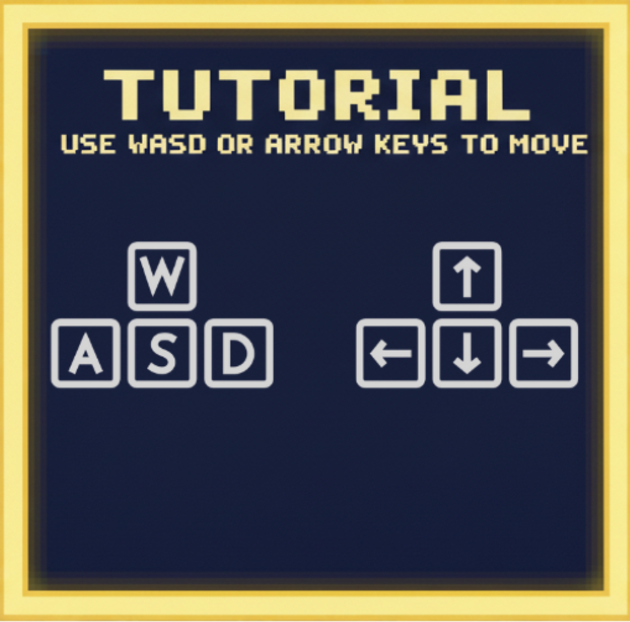
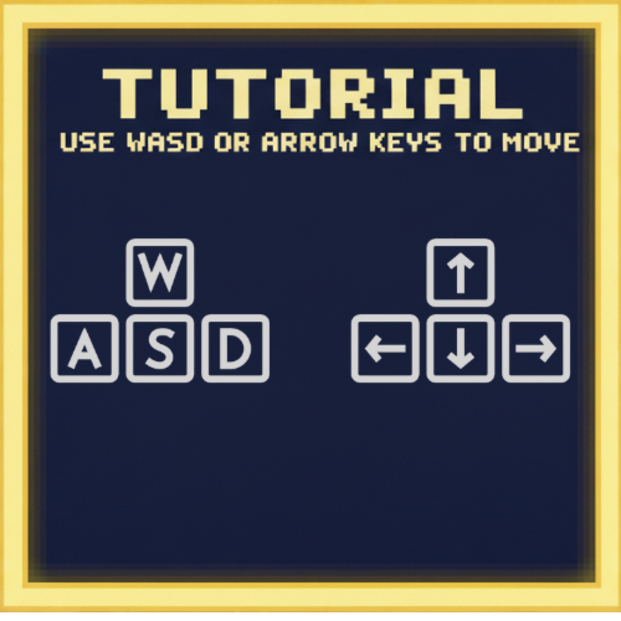
Update RankingBoard
HI vọng không lỗi

diff --git a/src/pacman_demo_v2/RankingBoard_Frame.java b/src/pacman_demo_v2/RankingBoard_Frame.java
@@ -119,7 +119,7 @@ public class RankingBoard_Frame extends javax.swing.JFrame {
         jPanel1.add(lbback);
         lbback.setBounds(20, 630, 120, 50);
 
-        lbText3rd3.setHorizontalAlignment(javax.swing.SwingConstants.CENTER);
+        lbText3rd3.setHorizontalAlignment(javax.swing.SwingConstants.RIGHT);
         jPanel1.add(lbText3rd3);
         lbText3rd3.setBounds(490, 310, 70, 40);
 
@@ -127,11 +127,11 @@ public class RankingBoard_Frame extends javax.swing.JFrame {
         jPanel1.add(lbText3rd2);
         lbText3rd2.setBounds(330, 320, 100, 20);
 
-        lbText3rd1.setHorizontalAlignment(javax.swing.SwingConstants.CENTER);
+        lbText3rd1.setHorizontalAlignment(javax.swing.SwingConstants.LEFT);
         jPanel1.add(lbText3rd1);
-        lbText3rd1.setBounds(190, 310, 70, 40);
+        lbText3rd1.setBounds(200, 310, 90, 40);
 
-        lbText2nd3.setHorizontalAlignment(javax.swing.SwingConstants.CENTER);
+        lbText2nd3.setHorizontalAlignment(javax.swing.SwingConstants.RIGHT);
         jPanel1.add(lbText2nd3);
         lbText2nd3.setBounds(490, 240, 70, 40);
 
@@ -139,23 +139,23 @@ public class RankingBoard_Frame extends javax.swing.JFrame {
         jPanel1.add(lbText2nd2);
         lbText2nd2.setBounds(330, 250, 100, 20);
 
-        lbText2nd1.setHorizontalAlignment(javax.swing.SwingConstants.CENTER);
+        lbText2nd1.setHorizontalAlignment(javax.swing.SwingConstants.LEFT);
         jPanel1.add(lbText2nd1);
-        lbText2nd1.setBounds(190, 240, 70, 40);
+        lbText2nd1.setBounds(200, 240, 90, 40);
 
-        lbText1st3.setHorizontalAlignment(javax.swing.SwingConstants.CENTER);
+        lbText1st3.setHorizontalAlignment(javax.swing.SwingConstants.RIGHT);
         jPanel1.add(lbText1st3);
-        lbText1st3.setBounds(490, 170, 70, 40);
+        lbText1st3.setBounds(490, 180, 70, 40);
 
         lbText1st2.setHorizontalAlignment(javax.swing.SwingConstants.CENTER);
         jPanel1.add(lbText1st2);
-        lbText1st2.setBounds(330, 180, 100, 20);
+        lbText1st2.setBounds(330, 190, 100, 20);
 
-        lbText1st1.setHorizontalAlignment(javax.swing.SwingConstants.CENTER);
+        lbText1st1.setHorizontalAlignment(javax.swing.SwingConstants.LEFT);
         jPanel1.add(lbText1st1);
-        lbText1st1.setBounds(190, 170, 70, 40);
+        lbText1st1.setBounds(200, 180, 90, 40);
 
-        lbText5th3.setHorizontalAlignment(javax.swing.SwingConstants.CENTER);
+        lbText5th3.setHorizontalAlignment(javax.swing.SwingConstants.RIGHT);
         jPanel1.add(lbText5th3);
         lbText5th3.setBounds(490, 440, 70, 40);
 
@@ -163,11 +163,11 @@ public class RankingBoard_Frame extends javax.swing.JFrame {
         jPanel1.add(lbText5th2);
         lbText5th2.setBounds(330, 450, 100, 20);
 
-        lbText5th1.setHorizontalAlignment(javax.swing.SwingConstants.CENTER);
+        lbText5th1.setHorizontalAlignment(javax.swing.SwingConstants.LEFT);
         jPanel1.add(lbText5th1);
-        lbText5th1.setBounds(190, 440, 70, 40);
+        lbText5th1.setBounds(200, 440, 90, 40);
 
-        lbText4th3.setHorizontalAlignment(javax.swing.SwingConstants.CENTER);
+        lbText4th3.setHorizontalAlignment(javax.swing.SwingConstants.RIGHT);
         jPanel1.add(lbText4th3);
         lbText4th3.setBounds(490, 370, 70, 40);
 
@@ -175,16 +175,16 @@ public class RankingBoard_Frame extends javax.swing.JFrame {
         jPanel1.add(lbText4th2);
         lbText4th2.setBounds(330, 380, 100, 20);
 
-        lbText4th1.setHorizontalAlignment(javax.swing.SwingConstants.CENTER);
+        lbText4th1.setHorizontalAlignment(javax.swing.SwingConstants.LEFT);
         jPanel1.add(lbText4th1);
-        lbText4th1.setBounds(190, 370, 70, 40);
+        lbText4th1.setBounds(200, 370, 90, 40);
 
         lbBgRankingBoard.setBackground(new java.awt.Color(51, 153, 255));
         lbBgRankingBoard.setHorizontalAlignment(javax.swing.SwingConstants.CENTER);
         lbBgRankingBoard.setIcon(new javax.swing.ImageIcon(getClass().getResource("/img/rankingBoardBG.png"))); // NOI18N
         lbBgRankingBoard.setOpaque(true);
         jPanel1.add(lbBgRankingBoard);
-        lbBgRankingBoard.setBounds(20, 20, 660, 660);
+        lbBgRankingBoard.setBounds(0, 0, 700, 700);
 
         javax.swing.GroupLayout layout = new javax.swing.GroupLayout(getContentPane());
         getContentPane().setLayout(layout);

diff --git a/src/pacman_demo_v2/PacManMainGame_Frame.java b/src/pacman_demo_v2/PacManMainGame_Frame.java
@@ -225,21 +225,9 @@ public class PacManMainGame_Frame extends javax.swing.JFrame {
                             .addComponent(lbCountScore, javax.swing.GroupLayout.DEFAULT_SIZE, javax.swing.GroupLayout.DEFAULT_SIZE, Short.MAX_VALUE)
                             .addComponent(lbCountLive, javax.swing.GroupLayout.DEFAULT_SIZE, javax.swing.GroupLayout.DEFAULT_SIZE, Short.MAX_VALUE)
                             .addComponent(lbCountTime, javax.swing.GroupLayout.DEFAULT_SIZE, 115, Short.MAX_VALUE))))
-<<<<<<< Updated upstream
-<<<<<<< Updated upstream
                 .addGap(28, 28, 28)
                 .addComponent(jLabel1, javax.swing.GroupLayout.PREFERRED_SIZE, 215, javax.swing.GroupLayout.PREFERRED_SIZE)
                 .addContainerGap(37, Short.MAX_VALUE))
-=======
-                .addPreferredGap(javax.swing.LayoutStyle.ComponentPlacement.RELATED, 27, Short.MAX_VALUE)
-                .addComponent(lbLogo, javax.swing.GroupLayout.PREFERRED_SIZE, 226, javax.swing.GroupLayout.PREFERRED_SIZE)
-                .addGap(27, 27, 27))
->>>>>>> Stashed changes
-=======
-                .addPreferredGap(javax.swing.LayoutStyle.ComponentPlacement.RELATED, 27, Short.MAX_VALUE)
-                .addComponent(lbLogo, javax.swing.GroupLayout.PREFERRED_SIZE, 226, javax.swing.GroupLayout.PREFERRED_SIZE)
-                .addGap(27, 27, 27))
->>>>>>> Stashed changes
         );
         pnlTileLayout.setVerticalGroup(
             pnlTileLayout.createParallelGroup(javax.swing.GroupLayout.Alignment.LEADING)
@@ -259,18 +247,8 @@ public class PacManMainGame_Frame extends javax.swing.JFrame {
                 .addPreferredGap(javax.swing.LayoutStyle.ComponentPlacement.UNRELATED)
                 .addComponent(lbHome, javax.swing.GroupLayout.PREFERRED_SIZE, 0, Short.MAX_VALUE))
             .addGroup(pnlTileLayout.createSequentialGroup()
-<<<<<<< Updated upstream
-<<<<<<< Updated upstream
                 .addComponent(jLabel1, javax.swing.GroupLayout.PREFERRED_SIZE, 151, javax.swing.GroupLayout.PREFERRED_SIZE)
                 .addGap(0, 22, Short.MAX_VALUE))
-=======
-                .addComponent(lbLogo, javax.swing.GroupLayout.PREFERRED_SIZE, 0, Short.MAX_VALUE)
-                .addContainerGap())
->>>>>>> Stashed changes
-=======
-                .addComponent(lbLogo, javax.swing.GroupLayout.PREFERRED_SIZE, 0, Short.MAX_VALUE)
-                .addContainerGap())
->>>>>>> Stashed changes
         );
 
         pnlBoard.setCursor(new java.awt.Cursor(java.awt.Cursor.DEFAULT_CURSOR));

diff --git a/src/pacman_demo_v2/Tutorial_Frame1.java b/src/pacman_demo_v2/Tutorial_Frame1.java
@@ -18,7 +18,7 @@ public class Tutorial_Frame1 extends javax.swing.JFrame {
         initComponents();
         javax.swing.ImageIcon icon = new javax.swing.ImageIcon(getClass().getResource("/img/logo.png"));
         this.setIconImage(icon.getImage());
-        this.setSize(630, 630);          // Đặt kích thước
+        this.setSize(635, 650);          // Đặt kích thước
         this.setResizable(false);        // Không cho phép thay đổi kích thước
         this.setLocationRelativeTo(null); // Đặt cửa sổ ra giữa màn hình
     }
@@ -51,7 +51,7 @@ public class Tutorial_Frame1 extends javax.swing.JFrame {
             }
         });
         jPanel1.add(lbback);
-        lbback.setBounds(170, 520, 120, 50);
+        lbback.setBounds(40, 520, 120, 50);
 
         lbnext.setIcon(new javax.swing.ImageIcon(getClass().getResource("/img/Tutnext.png"))); // NOI18N
         lbnext.setCursor(new java.awt.Cursor(java.awt.Cursor.HAND_CURSOR));
@@ -62,22 +62,24 @@ public class Tutorial_Frame1 extends javax.swing.JFrame {
             }
         });
         jPanel1.add(lbnext);
-        lbnext.setBounds(330, 520, 130, 50);
+        lbnext.setBounds(170, 520, 130, 50);
 
         lbbackground.setIcon(new javax.swing.ImageIcon(getClass().getResource("/img/tutorial/Tut1.png"))); // NOI18N
         lbbackground.setBorder(new javax.swing.border.SoftBevelBorder(javax.swing.border.BevelBorder.RAISED));
         jPanel1.add(lbbackground);
-        lbbackground.setBounds(0, 0, 630, 630);
+        lbbackground.setBounds(0, 0, 630, 610);
 
         javax.swing.GroupLayout layout = new javax.swing.GroupLayout(getContentPane());
         getContentPane().setLayout(layout);
         layout.setHorizontalGroup(
             layout.createParallelGroup(javax.swing.GroupLayout.Alignment.LEADING)
-            .addComponent(jPanel1, javax.swing.GroupLayout.DEFAULT_SIZE, 630, Short.MAX_VALUE)
+            .addGroup(layout.createSequentialGroup()
+                .addComponent(jPanel1, javax.swing.GroupLayout.DEFAULT_SIZE, 625, Short.MAX_VALUE)
+                .addContainerGap())
         );
         layout.setVerticalGroup(
             layout.createParallelGroup(javax.swing.GroupLayout.Alignment.LEADING)
-            .addComponent(jPanel1, javax.swing.GroupLayout.PREFERRED_SIZE, 630, javax.swing.GroupLayout.PREFERRED_SIZE)
+            .addComponent(jPanel1, javax.swing.GroupLayout.PREFERRED_SIZE, 627, javax.swing.GroupLayout.PREFERRED_SIZE)
         );
 
         pack();

diff --git a/src/pacman_demo_v2/Tutorial_Frame2.java b/src/pacman_demo_v2/Tutorial_Frame2.java
@@ -51,7 +51,7 @@ public class Tutorial_Frame2 extends javax.swing.JFrame {
             }
         });
         jPanel1.add(lbback);
-        lbback.setBounds(170, 560, 120, 50);
+        lbback.setBounds(30, 560, 120, 50);
 
         lbnext.setIcon(new javax.swing.ImageIcon(getClass().getResource("/img/Tutnext.png"))); // NOI18N
         lbnext.setCursor(new java.awt.Cursor(java.awt.Cursor.HAND_CURSOR));
@@ -62,7 +62,7 @@ public class Tutorial_Frame2 extends javax.swing.JFrame {
             }
         });
         jPanel1.add(lbnext);
-        lbnext.setBounds(330, 560, 130, 50);
+        lbnext.setBounds(160, 560, 130, 50);
 
         lbbackground.setIcon(new javax.swing.ImageIcon(getClass().getResource("/img/tutorial/Tut2.png"))); // NOI18N
         lbbackground.setBorder(new javax.swing.border.SoftBevelBorder(javax.swing.border.BevelBorder.RAISED));

diff --git a/src/pacman_demo_v2/Tutorial_Frame3.java b/src/pacman_demo_v2/Tutorial_Frame3.java
@@ -51,7 +51,7 @@ public class Tutorial_Frame3 extends javax.swing.JFrame {
             }
         });
         jPanel1.add(lbnext);
-        lbnext.setBounds(330, 550, 130, 50);
+        lbnext.setBounds(170, 540, 130, 50);
 
         lbback.setIcon(new javax.swing.ImageIcon(getClass().getResource("/img/Tutback.png"))); // NOI18N
         lbback.setCursor(new java.awt.Cursor(java.awt.Cursor.HAND_CURSOR));
@@ -62,7 +62,7 @@ public class Tutorial_Frame3 extends javax.swing.JFrame {
             }
         });
         jPanel1.add(lbback);
-        lbback.setBounds(170, 550, 120, 50);
+        lbback.setBounds(40, 540, 120, 50);
 
         lbbackground.setIcon(new javax.swing.ImageIcon(getClass().getResource("/img/tutorial/Tut3.png"))); // NOI18N
         lbbackground.setBorder(new javax.swing.border.SoftBevelBorder(javax.swing.border.BevelBorder.RAISED));

diff --git a/src/pacman_demo_v2/Tutorial_Frame4.java b/src/pacman_demo_v2/Tutorial_Frame4.java
@@ -51,7 +51,7 @@ public class Tutorial_Frame4 extends javax.swing.JFrame {
             }
         });
         jPanel1.add(lbnext);
-        lbnext.setBounds(330, 544, 130, 60);
+        lbnext.setBounds(450, 560, 130, 54);
 
         lbback.setIcon(new javax.swing.ImageIcon(getClass().getResource("/img/Tutback.png"))); // NOI18N
         lbback.setCursor(new java.awt.Cursor(java.awt.Cursor.HAND_CURSOR));
@@ -62,7 +62,7 @@ public class Tutorial_Frame4 extends javax.swing.JFrame {
             }
         });
         jPanel1.add(lbback);
-        lbback.setBounds(170, 550, 120, 50);
+        lbback.setBounds(30, 560, 120, 50);
 
         lbbackground.setIcon(new javax.swing.ImageIcon(getClass().getResource("/img/tutorial/Tut4.png"))); // NOI18N
         lbbackground.setBorder(new javax.swing.border.SoftBevelBorder(javax.swing.border.BevelBorder.RAISED));
